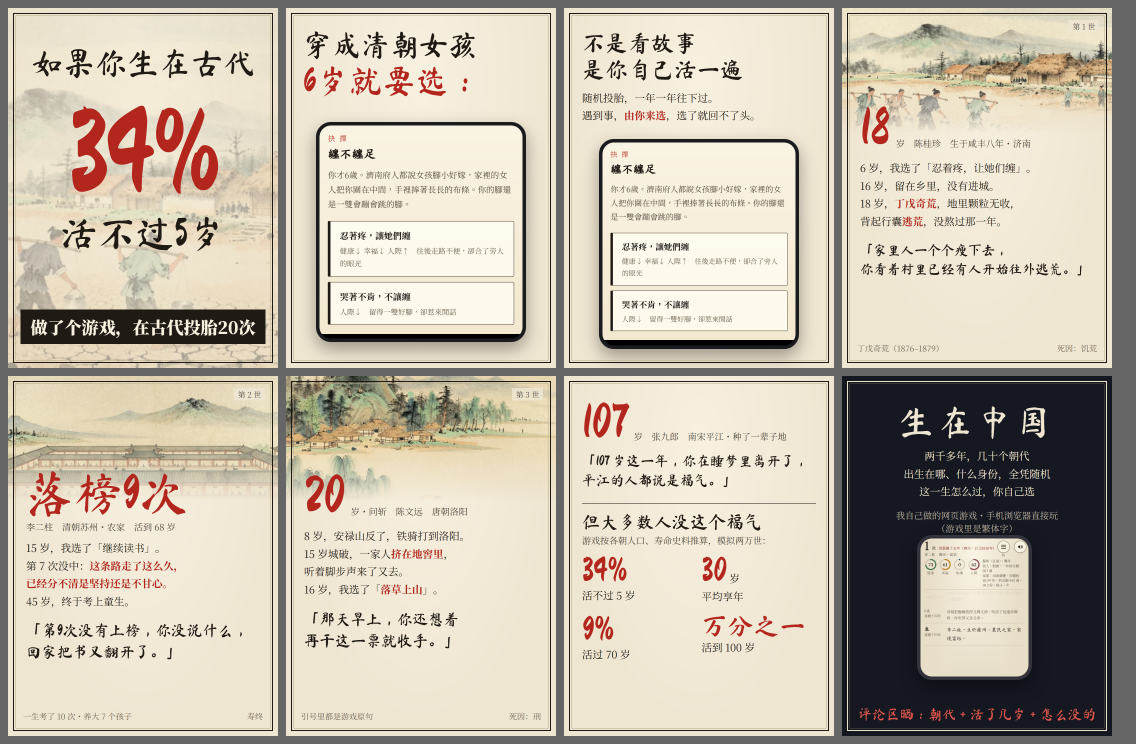
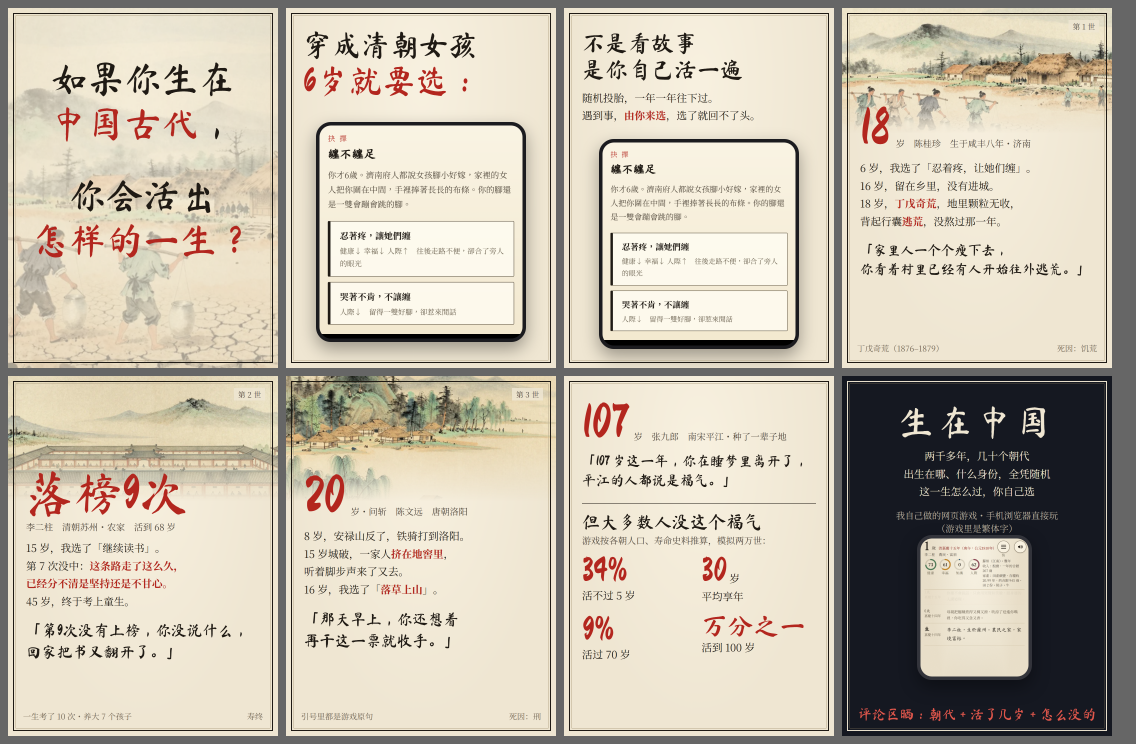
china_life 小紅書封面改為問句

Changed region(s): [[0.0308, 0.0618, 0.2157, 0.3401], [0.0, 0.4019, 0.2465, 0.4637]]

diff --git a/Projects/china_life_xhs/小紅書圖文 v2.md b/Projects/china_life_xhs/小紅書圖文 v2.md
@@ -55,7 +55,7 @@ created: 2026-10-21
 
 ## 為什麼這樣寫（兩輪評審的結論）
 
-- 封面只留三層字（如果你生在古代／34%／活不过5岁），170px 縮圖還看得清；底條寫「做了个游戏」讓遊戲玩家認得出。評審估 8/10。
+- 封面（owner 2026-10-21 指定）只有一句：「如果你生在中国古代，你会活出怎样的一生？」。用簡體，因為書法字型沒有「國、會、樣」的繁體字形。標題保留 34% 的數字，和封面的問句互補。
 - 第 2 張放遊戲的「纏不纏足」抉擇畫面：讓人知道這是自己能玩、要自己選的遊戲，不只是幾個故事。
 - 圖與正文都不放網址、不寫「免費／不用下載／點擊／鏈接」：小紅書會辨識圖中文字，站外引流會被限流。網址只在私下回覆追問者時，用「games点csiesheep点com/china_life」的寫法。
 - 不寫「公元前400年～1940年」「民国」；第 7 張的遊戲截圖避開首頁朝代表（有「中華民國」）和地圖（大陸對地圖審查嚴）。
